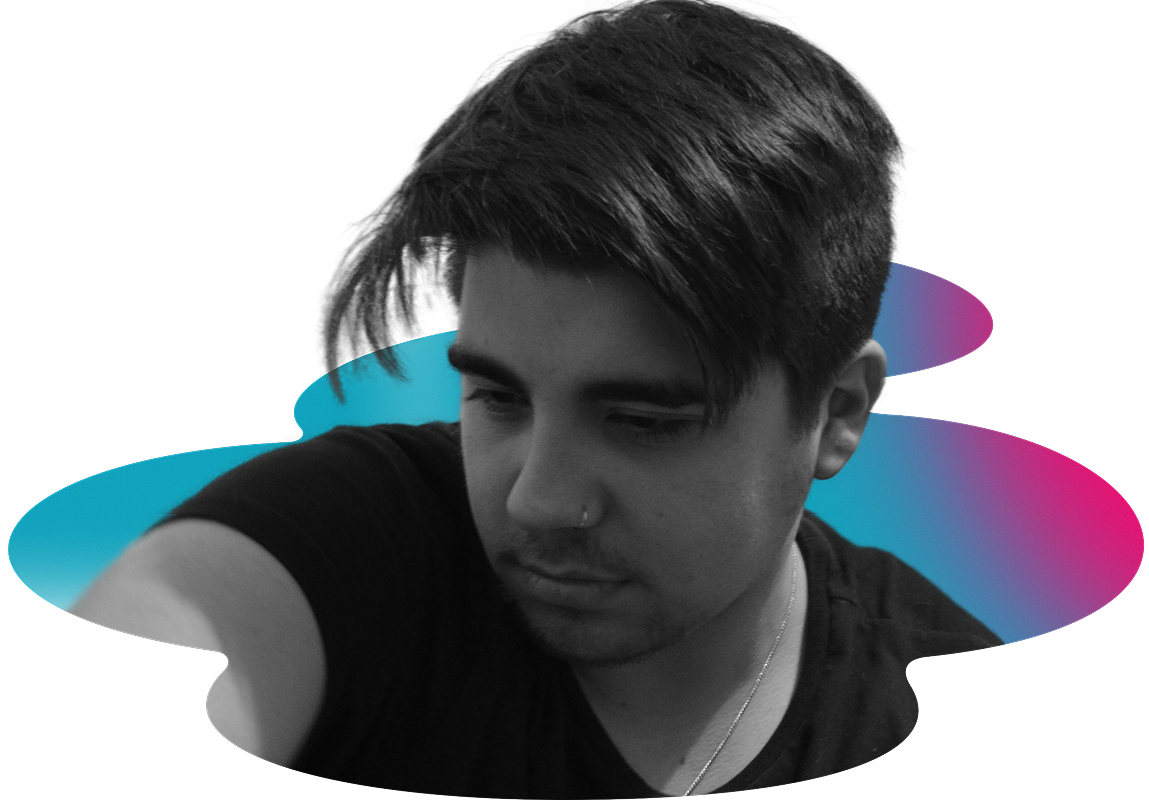
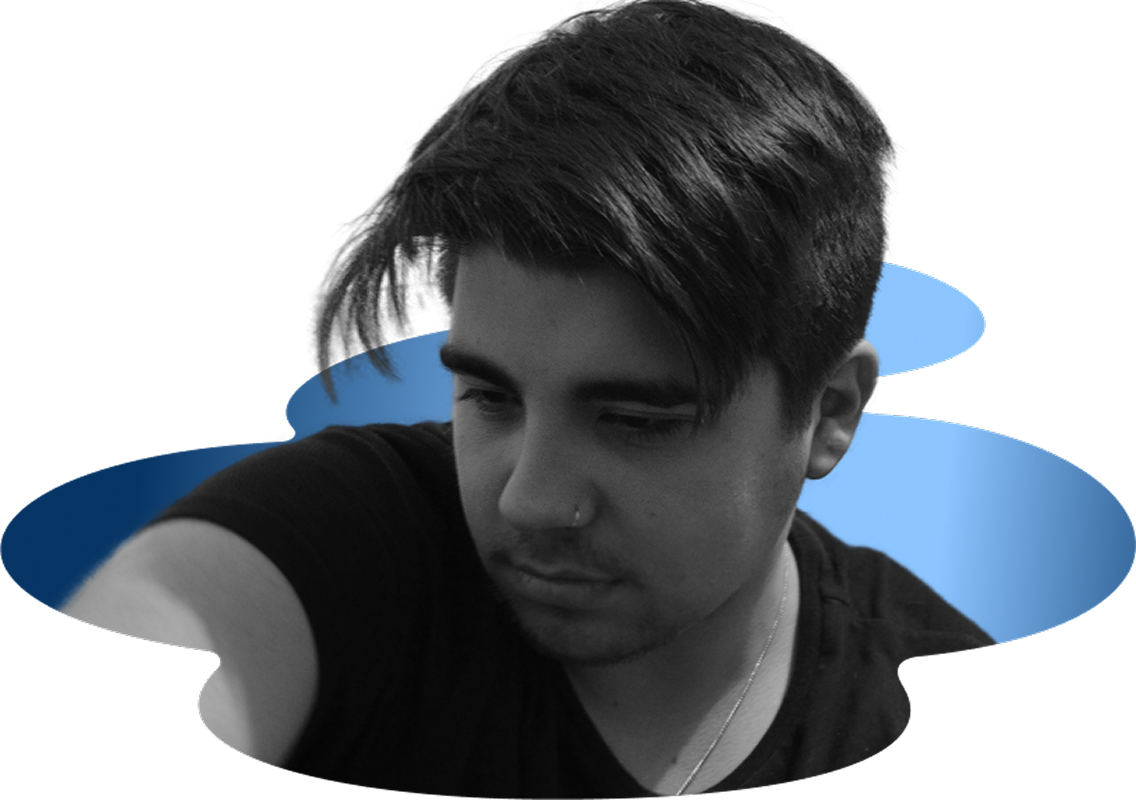
nuevos botones

diff --git a/index.html b/index.html
@@ -69,61 +69,32 @@
         <section id="contacto" class="section contacto-section">
             <h1>Contacto</h1>
             <div class="card-container">
-
-                <div class="contact-card">
-                    <i class="fa-solid fa-phone card-icon"></i>
-                    <div class="card-text">
-                        <p>+54 336 4213607</p>
-                    </div>
-                    <a href="https://wa.me/543364213607" target="_blank" class="link-button">
-                        <i class="fa-solid fa-arrow-right"></i>
-                        <p>Enviar mensaje</p>
+                
+                    <a href="https://github.com/tomassantacreu" target="_blank" class="contact-card">
+                        <p>Teléfono</p>
+                        <img src="./images/Phone.svg"  class="fa-brands fa-square-github card-icon"></img>
                     </a>
-                </div>
-
-                <div class="contact-card">
-                    <i class="fa-solid fa-envelope card-icon"></i>
-                    <div class="email">
-                        <p>Tomassantacreu12@gmail.com</p>
-                    </div>
-                    <a href="mailto:tomassantacreu12@gmail.com" target="_blank" class="link-button">
-                        <i class="fa-solid fa-arrow-right"></i>
-                        <p>Enviar mensaje</p>
+                    
+                    <a href="https://github.com/tomassantacreu" target="_blank" class="contact-card">
+                        <p>E-mail</p>
+                        <img src="./images/Email.svg"  class="fa-brands fa-square-github card-icon"></img>
                     </a>
-                </div>
-
-                <div class="contact-card">
-                    <i class="fa-brands fa-linkedin card-icon"></i>
-                    <div class="card-text">
-                        <p>/tomas-santacreu</p>
-                    </div>
-                    <a href="https://www.linkedin.com/in/tomas-santacreu/" target="_blank" class="link-button">
-                        <i class="fa-solid fa-arrow-right"></i>
-                        <p>Visitar perfil</p>
+                    
+                    <a href="https://github.com/tomassantacreu" target="_blank" class="contact-card">
+                        <p>LinkedIn</p>
+                        <img src="./images/Linkedin.svg"  class="fa-brands fa-square-github card-icon"></img>
                     </a>
-                </div>
-
-                <div class="contact-card">
-                    <i class="fa-brands fa-square-behance card-icon"></i>
-                    <div class="card-text">
-                        <p>/tomassantacreu</p>
-                    </div>
-                    <a href="https://www.behance.net/tomassantacreu" target="_blank" class="link-button">
-                        <i class="fa-solid fa-arrow-right"></i>
-                        <p>Visitar perfil</p>
+                    
+                    <a href="https://github.com/tomassantacreu" target="_blank" class="contact-card">
+                        <p>Behance</p>
+                        <img src="./images/Behance.svg"  class="fa-brands fa-square-github card-icon"></img>
                     </a>
-                </div>
 
-                <div class="contact-card">
-                    <i class="fa-brands fa-square-github card-icon"></i>
-                    <div class="card-text">
-                        <p>/tomassantacreu</p>
-                    </div>
-                    <a href="https://github.com/tomassantacreu" target="_blank" class="link-button">
-                        <i class="fa-solid fa-arrow-right"></i>
-                        <p>Visitar perfil</p>
+                    <a href="https://github.com/tomassantacreu" target="_blank" class="contact-card">
+                        <p>Github</p>
+                        <img src="./images/Github.svg"  class="fa-brands fa-square-github card-icon"></img>
                     </a>
-                </div>
+            
 
             </div>
         </section>

diff --git a/styles.css b/styles.css
@@ -42,7 +42,7 @@ body {
   text-align: center;
   font-size: 1.5rem;
   color: #fff;
-  padding: 12px;
+  padding: 28px;
   box-sizing: border-box;
   background: url("/images/w.svg") no-repeat center center;
   background-size: cover;
@@ -64,7 +64,7 @@ body {
 }
 
 #intro h1 {
-  color: #1fbccf;
+  color: #3587da;
   margin-top: 10px;
   margin-bottom: 10px;
 }
@@ -163,7 +163,6 @@ body {
 ============================== */
 #contacto {
   width: 100%;
-  padding: clamp(2rem, 8vh, 4rem) 1rem;
   box-sizing: border-box;
 }
 
@@ -184,47 +183,33 @@ body {
   display: flex;
   justify-content: space-between;
   align-items: center;
-  background: #313131;
-  width: 90%;
-  border-radius: 16px;
-  padding: 10px;
+  background: linear-gradient(
+    -70deg ,
+    #073565 0%,
+    #8CC5FF 30%,
+    #8CC5FF 45%,
+    #073565 85%
+  );
+  width: 100%;
+  height: 72px;
+  border: 1.3px solid rgba(140, 197, 255, 0.4);
+  border-radius: 12px;
+  padding: 0px 24px;
   box-sizing: border-box;
 }
+.contact-card p{
+  color: white;
+  font-size: 28px;
+  font-weight: 600;
+ }
 
-.card-icon {
-  font-size: 2.5rem;
-  color: #1fbccf;
-  margin-left: 10px;
-}
+.contact-card {
+text-decoration: none;}
 
-.card-text p {
-  margin: 0;
-  font-weight: 500;
-  font-size: 0.9rem;
-}
 
-.link-button {
-  display: flex;
-  align-items: center;
-  gap: 8px;
-  padding: 10px;
-  border-radius: 8px;
-  background: #1fbccf;
-  text-decoration: none;
-  font-size: 1rem;
-  color: #1e1a20;
-}
 
-/* Centrado vertical de la sección Contacto */
-.contacto-section {
-  min-height: 100vh; /* ocupa toda la altura de la pantalla */
-  display: flex;
-  flex-direction: column;
-  justify-content: center; /* centra verticalmente */
-  align-items: center; /* centra horizontalmente */
-  text-align: center;
-  box-sizing: border-box;
-}
+
+
 
 /* Asegura que no haya márgenes raros */
 .contacto-section h1 {
